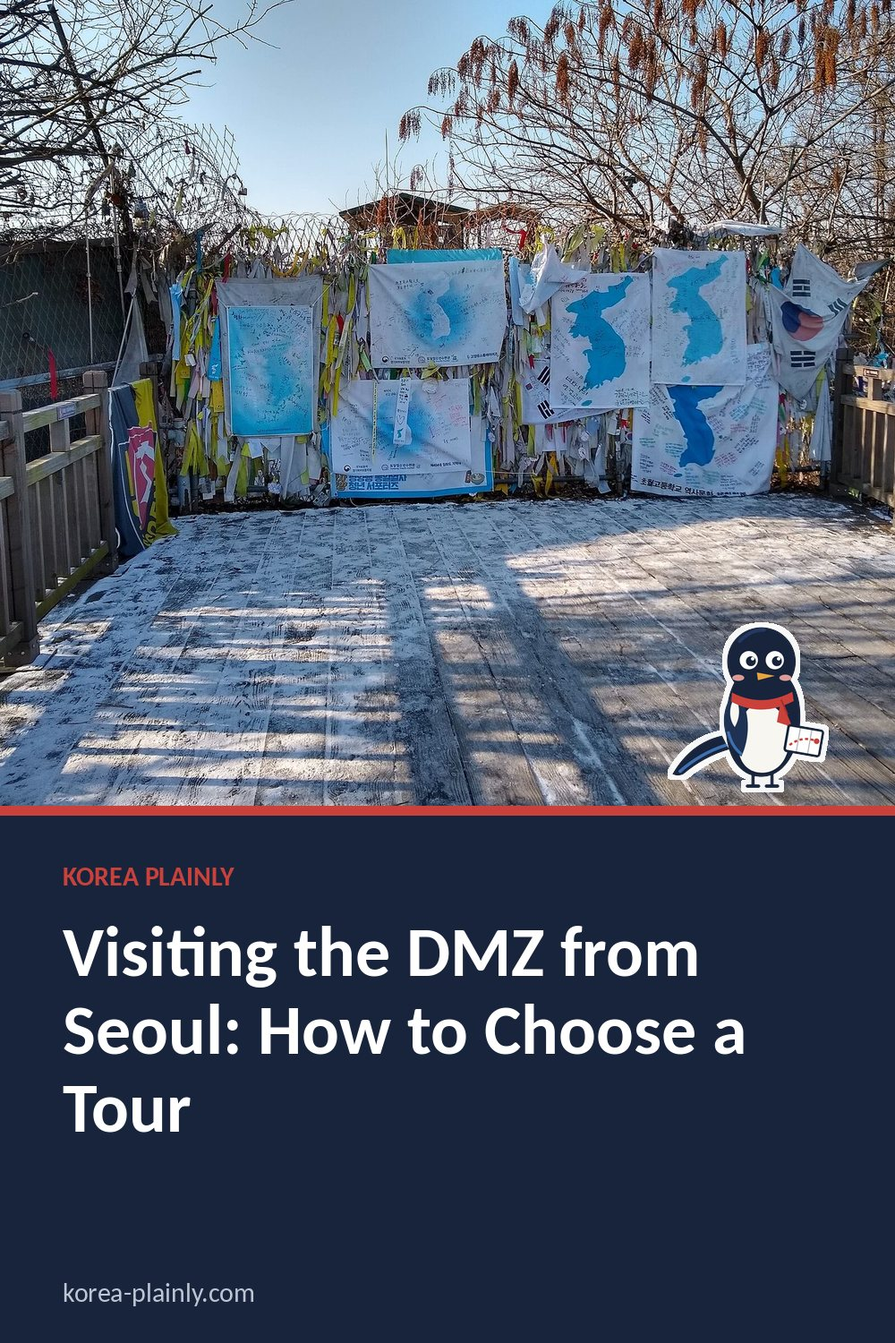
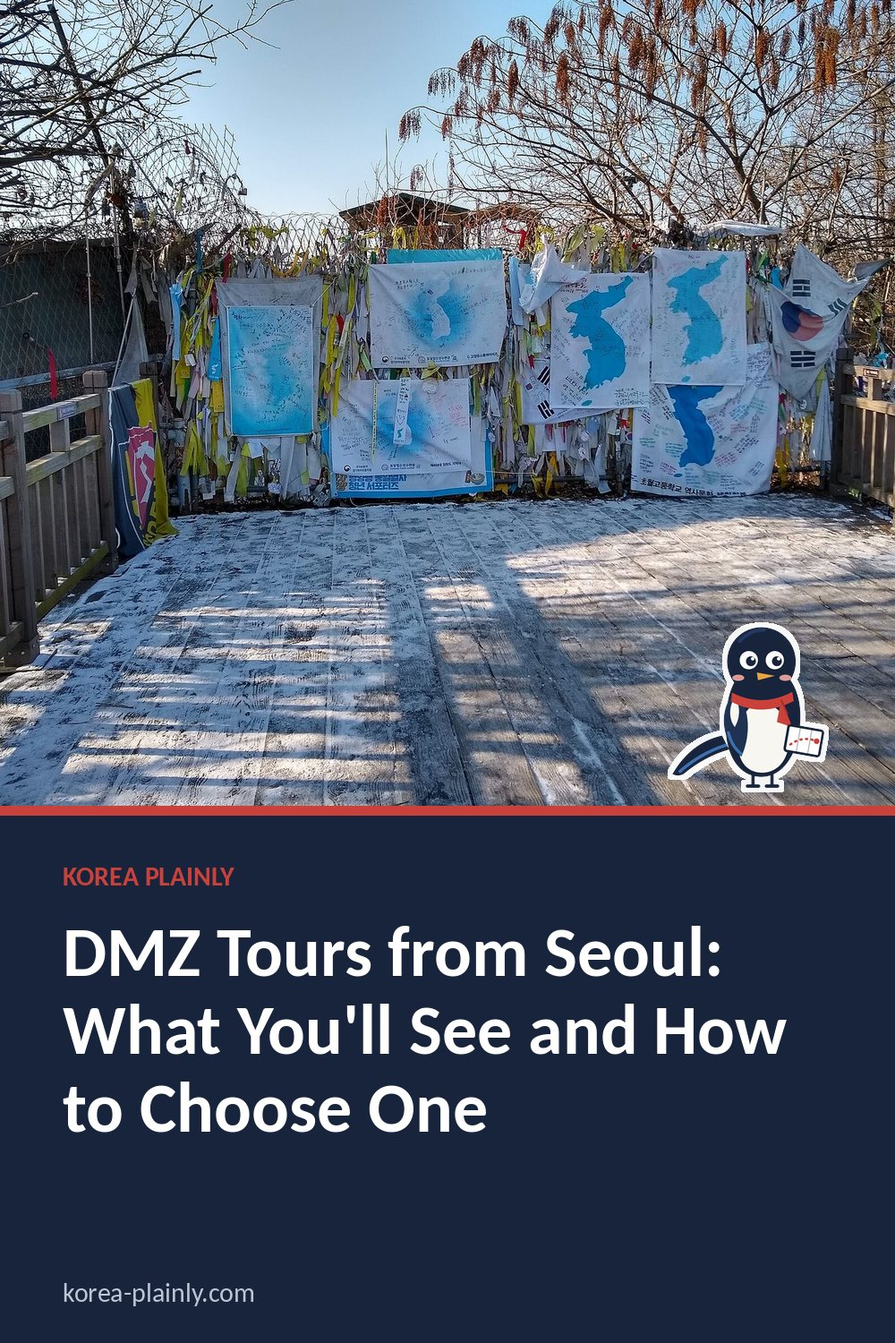
DMZ guide: retitle for 'dmz tours from seoul' and rewrite with the three ways to go and the 2026 JSA status; queue Busan and Jeonju-from-Seoul topics first
Claude-Session: https://claude.ai/code/session_01PbvyzXBvDyJFuNweV8hYLA

Changed region(s): [[0.062, 0.6747, 0.868, 0.8587]]

diff --git a/dmz-tour-guide.html b/dmz-tour-guide.html
@@ -11,13 +11,11 @@
 >
 
 <link rel="stylesheet" href="style.css?v=20261015-1">
-<title>
-Visiting the DMZ from Seoul: How to Choose a Tour | Korea Plainly
-</title>
+<title>DMZ Tours from Seoul: What You'll See and How to Choose One</title>
 
 <meta
   name="description"
-  content="How to visit the DMZ from Seoul: what a tour actually shows you, the JSA question, how to pick an operator, passports, closing days and what to expect on the day."
+  content="DMZ tours from Seoul compared: coach tours, Paju's own shuttle from Imjingak and the DMZ train, plus the 2026 JSA status, passport rules and Monday closures."
 >
 <link
   rel="canonical"
@@ -31,12 +29,12 @@ Visiting the DMZ from Seoul: How to Choose a Tour | Korea Plainly
 
 <meta
   property="og:title"
-  content="Visiting the DMZ from Seoul: How to Choose a Tour"
+  content="DMZ Tours from Seoul: What You'll See and How to Choose One"
 >
 
 <meta
   property="og:description"
-  content="How to visit the DMZ from Seoul: what a tour actually shows you, the JSA question, how to pick an operator, passports, closing days and what to expect on the day."
+  content="DMZ tours from Seoul compared: coach tours, Paju's own shuttle from Imjingak and the DMZ train, plus the 2026 JSA status, passport rules and Monday closures."
 >
 
 <meta
@@ -61,12 +59,12 @@ Visiting the DMZ from Seoul: How to Choose a Tour | Korea Plainly
 
 <meta
   name="twitter:title"
-  content="Visiting the DMZ from Seoul: How to Choose a Tour"
+  content="DMZ Tours from Seoul: What You'll See and How to Choose One"
 >
 
 <meta
   name="twitter:description"
-  content="How to visit the DMZ from Seoul: what a tour actually shows you, the JSA question, how to pick an operator, passports, closing days and what to expect on the day."
+  content="DMZ tours from Seoul compared: coach tours, Paju's own shuttle from Imjingak and the DMZ train, plus the 2026 JSA status, passport rules and Monday closures."
 >
 
 <meta
@@ -246,12 +244,12 @@ footer {
 <script async src="https://www.googletagmanager.com/gtag/js?id=G-F508WWT8G9"></script><script>window.dataLayer=window.dataLayer||[];function gtag(){dataLayer.push(arguments);}gtag('js',new Date());gtag('config','G-F508WWT8G9');</script>
 <script async src="https://pagead2.googlesyndication.com/pagead/js/adsbygoogle.js?client=ca-pub-7379462117232471" crossorigin="anonymous"></script>
 <style>.kp-date{font-size:13px;color:#62635f;margin:-6px 0 22px}</style>
-<script type="application/ld+json" id="kp-faq-ld">{"@context": "https://schema.org", "@type": "FAQPage", "mainEntity": [{"@type": "Question", "name": "Can I visit the DMZ without a tour?", "acceptedAnswer": {"@type": "Answer", "text": "You can visit Imjingak Peace Park on your own, but the Third Tunnel and Dora Observatory are in a restricted area, so in practice you need an organised tour."}}, {"@type": "Question", "name": "Is the JSA at Panmunjom open to tourists?", "acceptedAnswer": {"@type": "Answer", "text": "Civilian JSA tours were suspended in 2023 and access has been limited since. If one is offered, book early and expect possible cancellation."}}, {"@type": "Question", "name": "What do I need to bring on a DMZ tour?", "acceptedAnswer": {"@type": "Answer", "text": "Your physical passport, comfortable shoes and weather-appropriate clothes. Without your passport you will not get past the checkpoint."}}]}</script>
 <link rel="stylesheet" href="article.css?v=3">
 <link rel="stylesheet" href="https://fonts.googleapis.com/css2?family=DM+Sans:wght@400;500;600;700&family=Playfair+Display:ital,wght@0,600;1,600&display=swap">
 <link rel="icon" href="/favicon.svg" type="image/svg+xml">
-<script type="application/ld+json" id="kp-article-ld">{"@context": "https://schema.org", "@type": "Article", "headline": "Visiting the DMZ from Seoul: How to Choose a Tour", "description": "How to visit the DMZ from Seoul: what a tour actually shows you, the JSA question, how to pick an operator, passports, closing days and what to expect on the day.", "image": ["https://korea-plainly.com/photo-dmz-tour-guide.jpg"], "datePublished": "2026-10-17", "dateModified": "2026-10-17", "author": {"@type": "Person", "name": "Jungsuk Kim", "url": "https://korea-plainly.com/about.html#author"}, "publisher": {"@type": "Organization", "name": "Korea Plainly", "url": "https://korea-plainly.com/"}, "mainEntityOfPage": "https://korea-plainly.com/dmz-tour-guide.html"}</script>
-<script type="application/ld+json" id="kp-breadcrumb-ld">{"@context": "https://schema.org", "@type": "BreadcrumbList", "itemListElement": [{"@type": "ListItem", "position": 1, "name": "Home", "item": "https://korea-plainly.com/"}, {"@type": "ListItem", "position": 2, "name": "Guides", "item": "https://korea-plainly.com/guides.html"}, {"@type": "ListItem", "position": 3, "name": "Travel Basics", "item": "https://korea-plainly.com/guides.html?category=travel"}, {"@type": "ListItem", "position": 4, "name": "Visiting the DMZ from Seoul: How to Choose a Tour", "item": "https://korea-plainly.com/dmz-tour-guide.html"}]}</script>
+<script type="application/ld+json" id="kp-faq-ld">{"@context": "https://schema.org", "@type": "FAQPage", "mainEntity": [{"@type": "Question", "name": "Can I visit the DMZ from Seoul without a tour?", "acceptedAnswer": {"@type": "Answer", "text": "You can reach Imjingak Peace Park on your own by train and bus, but the Third Tunnel and Dora Observatory are in a restricted area. To see them you need either a tour from Seoul or Paju city's shuttle from Imjingak, with your passport."}}, {"@type": "Question", "name": "Is the JSA at Panmunjom open to tourists in 2026?", "acceptedAnswer": {"@type": "Answer", "text": "No. Public tours stopped in July 2023, and since 2025 only special visits for officials and invited guests have been allowed. Ordinary DMZ tours from Seoul still visit the tunnel, observatory and Dorasan Station."}}, {"@type": "Question", "name": "How long does a DMZ tour from Seoul take?", "acceptedAnswer": {"@type": "Answer", "text": "A half-day tour takes about six hours including the drive, leaving early in the morning and returning in the early afternoon. Full-day tours take eight to ten hours."}}]}</script>
+<script type="application/ld+json" id="kp-article-ld">{"@context": "https://schema.org", "@type": "Article", "headline": "DMZ Tours from Seoul: What You'll See and How to Choose One", "description": "DMZ tours from Seoul compared: coach tours, Paju", "image": ["https://korea-plainly.com/photo-dmz-tour-guide.jpg"], "datePublished": "2026-10-17", "dateModified": "2026-10-23", "author": {"@type": "Person", "name": "Jungsuk Kim", "url": "https://korea-plainly.com/about.html#author"}, "publisher": {"@type": "Organization", "name": "Korea Plainly", "url": "https://korea-plainly.com/"}, "mainEntityOfPage": "https://korea-plainly.com/dmz-tour-guide.html"}</script>
+<script type="application/ld+json" id="kp-breadcrumb-ld">{"@context": "https://schema.org", "@type": "BreadcrumbList", "itemListElement": [{"@type": "ListItem", "position": 1, "name": "Home", "item": "https://korea-plainly.com/"}, {"@type": "ListItem", "position": 2, "name": "Guides", "item": "https://korea-plainly.com/guides.html"}, {"@type": "ListItem", "position": 3, "name": "Travel Basics", "item": "https://korea-plainly.com/guides.html?category=travel"}, {"@type": "ListItem", "position": 4, "name": "DMZ Tours from Seoul: What You'll See and How to Choose One", "item": "https://korea-plainly.com/dmz-tour-guide.html"}]}</script>
 <meta property="article:published_time" content="2026-10-17">
 </head>
 
@@ -282,12 +280,12 @@ TRAVEL · DAY TRIP
 </div>
 
 <h1>
-Visiting the DMZ from Seoul: How to Choose a Tour
+DMZ Tours from Seoul: What You'll See and How to Choose One
 </h1>
-<p class="kp-date" data-kp="date">By <a href="about.html#author">Jungsuk Kim</a>, Korea Plainly · Published <time datetime="2026-10-17">17 October 2026</time></p>
+<p class="kp-date" data-kp="date">By <a href="about.html#author">Jungsuk Kim</a>, Korea Plainly · Published <time datetime="2026-10-17">17 October 2026</time> · Updated <time datetime="2026-10-23">23 October 2026</time></p>
 
 <p class="dek">
-How to visit the DMZ from Seoul: what a tour actually shows you, the JSA question, how to pick an operator, passports, closing days and what to expect on the day.
+DMZ tours from Seoul compared: coach tours, Paju's own shuttle from Imjingak and the DMZ train, plus the 2026 JSA status, passport rules and Monday closures.
 </p>
 
 <img
@@ -299,54 +297,60 @@ How to visit the DMZ from Seoul: what a tour actually shows you, the JSA questio
 
 <article>
 
-<p>The Demilitarised Zone, the 4-kilometre-wide strip that has divided North and South Korea since the 1953 armistice, is only about an hour's drive north of Seoul. A day there is sobering and strange: peace parks with fairground rides, soldiers checking passports, a tunnel dug towards Seoul, and a view across the border into North Korea. This guide explains what you will actually see, how to pick a tour and what to bring.</p>
+<p>The Demilitarised Zone, the 4-kilometre-wide strip that has divided North and South Korea since the 1953 armistice, is only about an hour's drive north of Seoul, which is why DMZ tours from Seoul are one of the most popular day trips in the country. A day there is sobering and strange: soldiers checking passports, a tunnel dug towards Seoul and a view into North Korea. This guide explains what you will actually see, the three main ways to go, what has changed with the JSA, and what to bring.</p>
 
-<nav class="kp-toc" data-kp="toc" aria-label="On this page"><p>On this page</p><ol><li><a href="#what-you-can-see">What you can actually see</a></li><li><a href="#the-jsa-question">The JSA question</a></li><li><a href="#choosing-a-tour">Choosing a tour</a></li><li><a href="#before-you-go">Before you go</a></li><li><a href="#is-it-worth-it">Is it worth it?</a></li><li><a href="#faq">FAQ</a></li></ol></nav>
-<h2 id="what-you-can-see">What you can actually see</h2>
-<p>Most "DMZ tours" visit the area just south of the zone, in Paju, rather than the zone itself. A typical half-day or full-day tour includes some of these:</p>
+<nav class="kp-toc" data-kp="toc" aria-label="On this page"><p>On this page</p><ol><li><a href="#what-you-can-see">What a DMZ tour actually shows you</a></li><li><a href="#ways-to-go">Three ways to do a DMZ tour from Seoul</a></li><li><a href="#the-jsa-question">The JSA question</a></li><li><a href="#choosing-a-tour">How to choose a DMZ tour</a></li><li><a href="#before-you-go">Before you go</a></li><li><a href="#is-it-worth-it">Is it worth it?</a></li><li><a href="#faq">FAQ</a></li></ol></nav>
+<h2 id="what-you-can-see">What a DMZ tour actually shows you</h2>
+<p>Most "DMZ tours" visit the Civilian Control Zone just south of the DMZ in Paju, not the zone itself. A typical half-day or full-day tour includes most of these:</p>
 <ul>
-<li><strong>Imjingak Peace Park:</strong> the starting point of most tours, with the Freedom Bridge, a bullet-scarred steam locomotive and fences covered in prayer ribbons left by separated families.</li>
-<li><strong>The Third Infiltration Tunnel:</strong> a tunnel dug from the North and found in 1978. You walk (or ride a small monorail) down a steep slope and then stoop along the tunnel itself. Bags and phones go into lockers, and photos are not allowed inside.</li>
-<li><strong>Dora Observatory:</strong> a hilltop viewpoint where, on a clear day, you can see a North Korean village and the city of Kaesong through binoculars.</li>
+<li><strong>Imjingak Peace Park:</strong> the starting point of almost every tour, with the Freedom Bridge, a bullet-scarred steam locomotive and fences covered in prayer ribbons left by separated families. It sits outside the restricted area, so anyone can visit.</li>
+<li><strong>The Third Infiltration Tunnel:</strong> a tunnel dug from the North and found in 1978. You walk (or, when it is running, ride a small monorail) down a steep slope and then stoop along the tunnel itself. Bags and phones go into lockers, and photos are not allowed inside.</li>
+<li><strong>Dora Observatory:</strong> a hilltop viewpoint where, on a clear day, you can see a North Korean village and the edge of Kaesong through binoculars. Spring haze often hides the view.</li>
 <li><strong>Dorasan Station:</strong> a modern station built for a railway to the North that has never run a regular service.</li>
 </ul>
-<p>Some tours add a suspension bridge, a lake or a talk with a North Korean defector. Read the itinerary closely: the cheapest tours often spend most of their time at Imjingak and shops.</p>
+<p>Read the itinerary closely: the cheapest tours often finish with a long stop at a ginseng or amethyst shop.</p>
+
+<h2 id="ways-to-go">Three ways to do a DMZ tour from Seoul</h2>
+<h3>1. A coach tour with pick-up in Seoul</h3>
+<p>This is what most first-time visitors book, and it is the easiest. A bus collects you from a hotel or a meeting point near City Hall, Myeongdong or Hongdae at around 7:00–8:00, an English-speaking guide explains each stop, and a half-day tour returns by early afternoon. In 2026 a half-day coach tour usually costs roughly ₩60,000–₩80,000 per person, with full-day tours and private cars costing more. Coach tours run most days; on Mondays, when the Third Tunnel is closed, many swap in other stops.</p>
+<h3>2. Paju's own DMZ shuttle from Imjingak</h3>
+<p>Paju city runs its own bus tour into the control zone from Imjingak. It is much cheaper (around ₩10,000 in 2026, a little more with the tunnel monorail) but needs more effort. You make your own way to Imjingak, by Gyeongui–Jungang Line train towards Munsan and then a short bus or taxi ride (check the route on Naver Map or KakaoMap). Only part of each bus is sold online; the rest of the seats go at the Imjingak ticket window from the morning, first come, first served, and popular weekends sell out. Everyone in your group must be at the window with their own physical passport. There is no English commentary on board, and the tour does not run on Mondays or on major holidays.</p>
+<h3>3. Korail's DMZ train to Dorasan</h3>
+<p>Korail runs a DMZ train from Seoul Station to Dorasan, with a coach for the restricted sites and a guide included. It runs only on a few selected days each month and needs a minimum number of passengers, so check the dates on the Korail website first.</p>
 
 <h2 id="the-jsa-question">The JSA question</h2>
-<p>The Joint Security Area at Panmunjom, with its famous blue huts where soldiers from both sides face each other, is a different and much more restricted visit. Civilian JSA tours were suspended in 2023 and access since then has been limited and unpredictable. If a company offers a JSA tour, book well ahead, expect a strict dress code and age limit, and be ready for it to be cancelled at short notice for military reasons. Do not plan your whole trip around it.</p>
+<p>The Joint Security Area at Panmunjom, with its famous blue huts where soldiers from both sides face each other, is a separate and much more restricted place. Public tours were halted in July 2023 after a US soldier crossed into North Korea during a visit. Since May 2025 the UN Command has allowed only special visits for officials and invited guests, arranged weeks ahead through the government. In practice, ordinary travellers cannot book a JSA tour in 2026. Be wary of any listing that promises one.</p>
 
-<h2 id="choosing-a-tour">Choosing a tour</h2>
-<p>You cannot simply walk into the restricted area: the Third Tunnel and Dora Observatory sit inside a military-controlled zone, so almost everyone goes with a licensed tour. Imjingak itself is open to anyone, and the local city runs its own bus tours from there, but rules for foreign visitors and timetables change, so most first-time visitors find a tour from Seoul simpler.</p>
+<h2 id="choosing-a-tour">How to choose a DMZ tour</h2>
 <ul>
-<li><strong>Half-day or full-day:</strong> a half-day tour covers the main sights and gets you back to Seoul by mid-afternoon. A full day adds extra stops and lunch.</li>
-<li><strong>Pick-up point:</strong> most tours collect people from central hotels or a meeting point near City Hall or Myeongdong early in the morning. Check how close it is to where you are staying.</li>
-<li><strong>Guide language:</strong> confirm the tour is in English (or your language) and not a mixed group with one commentary.</li>
-<li><strong>What is included:</strong> entrance fees, the tunnel monorail and lunch are sometimes extras.</li>
-<li><strong>Cancellation policy:</strong> sites can close at short notice for military drills or security alerts, so choose a company that refunds in that case.</li>
+<li><strong>Half-day or full-day:</strong> a full day adds stops such as the Majang Lake suspension bridge or a talk with a North Korean defector, plus lunch.</li>
+<li><strong>Pick-up point:</strong> check how far the meeting point is from your hotel. Early pick-ups do not wait for latecomers.</li>
+<li><strong>Guide language:</strong> confirm the commentary is in English, not split between several languages.</li>
+<li><strong>What is included:</strong> entrance fees, the tunnel monorail and lunch are sometimes extras. Look for "no shopping" if you would rather skip the shop stop.</li>
+<li><strong>Cancellation policy:</strong> sites can close at short notice for military reasons, so choose a company that refunds or reschedules.</li>
 </ul>
-<p>Prices change, so compare a few operators on the day you book. A standard half-day tour is usually far cheaper than any JSA package.</p>
 
 <h2 id="before-you-go">Before you go</h2>
 <ul>
-<li><strong>Bring your physical passport.</strong> Soldiers check it at the checkpoint. A photo or copy is not accepted, and you will be turned away without it.</li>
-<li><strong>Check the closing days.</strong> The Third Tunnel is usually closed on Mondays and some sites close on national holidays; tours often swap in other stops on those days. Confirm with your operator.</li>
-<li><strong>Follow photo rules.</strong> Guides tell you where photos are not allowed, especially of military posts. Do as they say.</li>
-<li><strong>Wear good shoes.</strong> The tunnel slope is steep and the way back up is tiring. The tunnel is not suitable for people who struggle with stairs or tight spaces.</li>
-<li><strong>Dress for the weather.</strong> The area is exposed and colder than Seoul in winter.</li>
+<li><strong>Bring your physical passport.</strong> Soldiers check it at the checkpoint, and a photo or copy is refused. Residents can use their Korean residence card.</li>
+<li><strong>Check closing days.</strong> The Third Tunnel and Paju's shuttle are closed on Mondays and on Seollal and Chuseok, and the restricted area can close without warning. Confirm with your operator the day before.</li>
+<li><strong>Follow the photo rules.</strong> Photos of military posts are often banned, as are drones. Guides tell you where you can shoot.</li>
+<li><strong>Wear good shoes.</strong> The tunnel slope is steep and the walk back up is tiring, and the tunnel itself is low and narrow.</li>
+<li><strong>Dress warmly in winter.</strong> The area is open, windy and colder than Seoul.</li>
 </ul>
-<div class="tip"><strong>Tip:</strong> Book at least a few days ahead in spring and autumn, when tours fill up. Check the meeting point on Naver Map or KakaoMap the evening before, as early pick-ups do not wait.</div>
+<div class="tip"><strong>Tip:</strong> Book at least a few days ahead in spring and autumn, when tours fill up. Check the meeting point on Naver Map or KakaoMap the evening before, and keep your passport in your day bag, not the hotel safe.</div>
 
 <h2 id="is-it-worth-it">Is it worth it?</h2>
-<p>If you are curious about modern Korean history, yes. It is less dramatic than films suggest, and parts of it feel like a tourist attraction, but standing a few kilometres from North Korea and hearing how families were split by the border stays with you. If you only have two or three days in Seoul and prefer food and neighbourhoods, it is fine to skip it. For other ideas, see our <a href="day-trips-from-seoul.html">day trips from Seoul</a>.</p>
+<p>If you are curious about modern Korean history, yes. It is less dramatic than films suggest, but standing a few kilometres from North Korea and hearing how families were split stays with you. If you only have two or three days in Seoul and prefer food and neighbourhoods, it is fine to skip it; our <a href="seoul-3-day-itinerary.html">3-day Seoul itinerary</a> works without it. With a week, a half-day tour fits well into a <a href="korea-7-day-itinerary.html">7-day Korea itinerary</a>. For other ideas, see our <a href="day-trips-from-seoul.html">day trips from Seoul</a>.</p>
 
 <section class="faq">
 <h2 id="faq">FAQ</h2>
-<h3>Can I visit the DMZ without a tour?</h3>
-<p>You can visit Imjingak Peace Park on your own, but the Third Tunnel and Dora Observatory are in a restricted area, so in practice you need an organised tour.</p>
-<h3>Is the JSA at Panmunjom open to tourists?</h3>
-<p>Civilian JSA tours were suspended in 2023 and access has been limited since. If one is offered, book early and expect possible cancellation.</p>
-<h3>What do I need to bring on a DMZ tour?</h3>
-<p>Your physical passport, comfortable shoes and weather-appropriate clothes. Without your passport you will not get past the checkpoint.</p>
+<h3>Can I visit the DMZ from Seoul without a tour?</h3>
+<p>You can reach Imjingak Peace Park on your own by train and bus, but the Third Tunnel and Dora Observatory are in a restricted area. To see them you need either a tour from Seoul or Paju city's shuttle from Imjingak, with your passport.</p>
+<h3>Is the JSA at Panmunjom open to tourists in 2026?</h3>
+<p>No. Public tours stopped in July 2023, and since 2025 only special visits for officials and invited guests have been allowed. Ordinary DMZ tours from Seoul still visit the tunnel, observatory and Dorasan Station.</p>
+<h3>How long does a DMZ tour from Seoul take?</h3>
+<p>A half-day tour takes about six hours including the drive, leaving early in the morning and returning in the early afternoon. Full-day tours take eight to ten hours.</p>
 </section>
 
 

diff --git a/myeongdong-night-market.html b/myeongdong-night-market.html
@@ -245,12 +245,12 @@ footer {
 <script async src="https://pagead2.googlesyndication.com/pagead/js/adsbygoogle.js?client=ca-pub-7379462117232471" crossorigin="anonymous"></script>
 <style>.kp-date{font-size:13px;color:#62635f;margin:-6px 0 22px}</style>
 <script type="application/ld+json" id="kp-faq-ld">{"@context": "https://schema.org", "@type": "FAQPage", "mainEntity": [{"@type": "Question", "name": "When is the best time to visit Myeongdong’s street-food stalls?", "acceptedAnswer": {"@type": "Answer", "text": "Myeongdong’s street-food stalls are generally associated with the evening, but activity and selection can vary by day, weather, and vendor. If you have a particular snack in mind, don’t rely on a precise schedule. Check the area when you arrive, and keep a nearby meal option in mind."}}, {"@type": "Question", "name": "Should I bring cash for street food?", "acceptedAnswer": {"@type": "Answer", "text": "Payment methods vary from stall to stall. Carry some Korean won in cash, and ask before ordering whether a vendor accepts your card or another payment method. Don’t assume every stall takes cards, and check the amount and payment method before your food is prepared."}}, {"@type": "Question", "name": "Can I find food that suits my dietary needs or allergies?", "acceptedAnswer": {"@type": "Answer", "text": "Options and ingredients vary, so ask the vendor about the food before ordering. If you have an allergy, explain it clearly and ask about ingredients and possible contact with other foods. A translated note can help, but if you’re unsure about an answer, choose something else."}}]}</script>
-<script type="application/ld+json" id="kp-article-ld">{"@context": "https://schema.org", "@type": "Article", "headline": "Myeongdong Night Market and Street Food: What to Know", "description": "A practical guide to finding Myeongdong’s evening food stalls, choosing Korean street snacks, paying, and getting around.", "image": ["https://korea-plainly.com/photo-myeongdong-night-market.jpg"], "datePublished": "2026-10-23", "dateModified": "2026-10-23", "author": {"@type": "Person", "name": "Jungsuk Kim", "url": "https://korea-plainly.com/about.html#author"}, "publisher": {"@type": "Organization", "name": "Korea Plainly", "url": "https://korea-plainly.com/"}, "mainEntityOfPage": "https://korea-plainly.com/myeongdong-night-market.html"}</script>
-<script type="application/ld+json" id="kp-breadcrumb-ld">{"@context": "https://schema.org", "@type": "BreadcrumbList", "itemListElement": [{"@type": "ListItem", "position": 1, "name": "Home", "item": "https://korea-plainly.com/"}, {"@type": "ListItem", "position": 2, "name": "Guides", "item": "https://korea-plainly.com/guides.html"}, {"@type": "ListItem", "position": 3, "name": "Food & Dining", "item": "https://korea-plainly.com/guides.html?category=food"}, {"@type": "ListItem", "position": 4, "name": "Myeongdong Night Market and Street Food: What to Know", "item": "https://korea-plainly.com/myeongdong-night-market.html"}]}</script>
-<meta property="article:published_time" content="2026-10-23">
 <link rel="stylesheet" href="article.css?v=3">
 <link rel="stylesheet" href="https://fonts.googleapis.com/css2?family=DM+Sans:wght@400;500;600;700&family=Playfair+Display:ital,wght@0,600;1,600&display=swap">
 <link rel="icon" href="/favicon.svg" type="image/svg+xml">
+<script type="application/ld+json" id="kp-article-ld">{"@context": "https://schema.org", "@type": "Article", "headline": "Myeongdong Night Market and Street Food: What to Know", "description": "A practical guide to finding Myeongdong’s evening food stalls, choosing Korean street snacks, paying, and getting around.", "image": ["https://korea-plainly.com/photo-myeongdong-night-market.jpg"], "datePublished": "2026-10-23", "dateModified": "2026-10-23", "author": {"@type": "Person", "name": "Jungsuk Kim", "url": "https://korea-plainly.com/about.html#author"}, "publisher": {"@type": "Organization", "name": "Korea Plainly", "url": "https://korea-plainly.com/"}, "mainEntityOfPage": "https://korea-plainly.com/myeongdong-night-market.html"}</script>
+<script type="application/ld+json" id="kp-breadcrumb-ld">{"@context": "https://schema.org", "@type": "BreadcrumbList", "itemListElement": [{"@type": "ListItem", "position": 1, "name": "Home", "item": "https://korea-plainly.com/"}, {"@type": "ListItem", "position": 2, "name": "Guides", "item": "https://korea-plainly.com/guides.html"}, {"@type": "ListItem", "position": 3, "name": "Food & Dining", "item": "https://korea-plainly.com/guides.html?category=food"}, {"@type": "ListItem", "position": 4, "name": "Myeongdong Night Market and Street Food: What to Know", "item": "https://korea-plainly.com/myeongdong-night-market.html"}]}</script>
+<meta property="article:published_time" content="2026-10-23">
 </head>
 
 <body class="kp-article">

diff --git a/korea-festivals.html b/korea-festivals.html
@@ -248,7 +248,7 @@ footer {
 <link rel="stylesheet" href="https://fonts.googleapis.com/css2?family=DM+Sans:wght@400;500;600;700&family=Playfair+Display:ital,wght@0,600;1,600&display=swap">
 <link rel="icon" href="/favicon.svg" type="image/svg+xml">
 <script type="application/ld+json" id="kp-faq-ld">{"@context": "https://schema.org", "@type": "FAQPage", "mainEntity": [{"@type": "Question", "name": "Where does this festival list come from?", "acceptedAnswer": {"@type": "Answer", "text": "From the Korea Tourism Organization's official tourism data, which we check every week. Always confirm dates on the festival's own page before you travel."}}, {"@type": "Question", "name": "When is the best time for festivals in Korea?", "acceptedAnswer": {"@type": "Answer", "text": "Autumn has the most festivals, followed by spring. Winter is the season for lights, ice fishing and snow festivals."}}, {"@type": "Question", "name": "Are Korean festivals free?", "acceptedAnswer": {"@type": "Answer", "text": "Many are free to enter, especially street, lantern and food festivals. Some activities, such as ice fishing or paid seats at fireworks shows, cost extra."}}]}</script>
-<script type="application/ld+json" id="kp-article-ld">{"@context": "https://schema.org", "@type": "Article", "headline": "Festivals in Korea: What's On This Month and Coming Up", "description": "A festival calendar for Korea, updated every week: what is on now and coming up across the country, from food and lantern festivals to fireworks, flowers and ice fishing.", "image": ["https://korea-plainly.com/photo-korea-festivals.jpg"], "datePublished": "2026-10-15", "dateModified": "2026-10-22", "author": {"@type": "Person", "name": "Jungsuk Kim", "url": "https://korea-plainly.com/about.html#author"}, "publisher": {"@type": "Organization", "name": "Korea Plainly", "url": "https://korea-plainly.com/"}, "mainEntityOfPage": "https://korea-plainly.com/korea-festivals.html"}</script>
+<script type="application/ld+json" id="kp-article-ld">{"@context": "https://schema.org", "@type": "Article", "headline": "Festivals in Korea: What's On This Month and Coming Up", "description": "A festival calendar for Korea, updated every week: what is on now and coming up across the country, from food and lantern festivals to fireworks, flowers and ice fishing.", "image": ["https://korea-plainly.com/photo-korea-festivals.jpg"], "datePublished": "2026-10-15", "dateModified": "2026-10-23", "author": {"@type": "Person", "name": "Jungsuk Kim", "url": "https://korea-plainly.com/about.html#author"}, "publisher": {"@type": "Organization", "name": "Korea Plainly", "url": "https://korea-plainly.com/"}, "mainEntityOfPage": "https://korea-plainly.com/korea-festivals.html"}</script>
 <script type="application/ld+json" id="kp-breadcrumb-ld">{"@context": "https://schema.org", "@type": "BreadcrumbList", "itemListElement": [{"@type": "ListItem", "position": 1, "name": "Home", "item": "https://korea-plainly.com/"}, {"@type": "ListItem", "position": 2, "name": "Guides", "item": "https://korea-plainly.com/guides.html"}, {"@type": "ListItem", "position": 3, "name": "Travel Basics", "item": "https://korea-plainly.com/guides.html?category=travel"}, {"@type": "ListItem", "position": 4, "name": "Festivals in Korea: What's On This Month and Coming Up", "item": "https://korea-plainly.com/korea-festivals.html"}]}</script>
 <meta property="article:published_time" content="2026-10-15">
 </head>
@@ -282,7 +282,7 @@ TRAVEL BASICS · WHAT'S ON
 <h1>
 Festivals in Korea: What's On This Month and Coming Up
 </h1>
-<p class="kp-date" data-kp="date">By <a href="about.html#author">Jungsuk Kim</a>, Korea Plainly · Published <time datetime="2026-10-15">15 October 2026</time> · Updated <time datetime="2026-10-22">22 October 2026</time></p>
+<p class="kp-date" data-kp="date">By <a href="about.html#author">Jungsuk Kim</a>, Korea Plainly · Published <time datetime="2026-10-15">15 October 2026</time> · Updated <time datetime="2026-10-23">23 October 2026</time></p>
 
 <p class="dek">
 A festival calendar for Korea, updated every week: what is on now and coming up across the country, from food and lantern festivals to fireworks, flowers and ice fishing.

diff --git a/nami-island-gapyeong.html b/nami-island-gapyeong.html
@@ -359,7 +359,7 @@ How to visit Nami Island and Gapyeong from Seoul: train, shuttle bus or tour, th
 <!-- /kp-kkachi -->
 <section class="related-guides">
 <h2>Related guides</h2>
-<div class="kp-related"><a href="day-trips-from-seoul.html"><img src="photo-day-trips-from-seoul.jpg" alt="" loading="lazy" srcset="img/photo-day-trips-from-seoul.449c2dca.w480.webp 480w, img/photo-day-trips-from-seoul.449c2dca.w800.webp 800w, img/photo-day-trips-from-seoul.449c2dca.w1200.webp 1200w, photo-day-trips-from-seoul.jpg 1600w" sizes="(max-width: 600px) 100vw, (max-width: 1000px) 50vw, 400px" decoding="async"><span>Easy Day Trips from Seoul for First-Time Visitors</span></a><a href="seoul-vs-busan.html"><img src="photo-seoul-vs-busan.jpg" alt="" loading="lazy" srcset="img/photo-seoul-vs-busan.79c62dd8.w480.webp 480w, img/photo-seoul-vs-busan.79c62dd8.w800.webp 800w, img/photo-seoul-vs-busan.79c62dd8.w1200.webp 1200w, photo-seoul-vs-busan.jpg 1600w" sizes="(max-width: 600px) 100vw, (max-width: 1000px) 50vw, 400px" decoding="async"><span>Seoul or Busan? How to Choose (or Do Both) on Your First Trip</span></a><a href="dmz-tour-guide.html"><img src="photo-dmz-tour-guide.jpg" alt="" loading="lazy" srcset="img/photo-dmz-tour-guide.330a61dc.w480.webp 480w, img/photo-dmz-tour-guide.330a61dc.w800.webp 800w, img/photo-dmz-tour-guide.330a61dc.w1200.webp 1200w, photo-dmz-tour-guide.jpg 1600w" sizes="(max-width: 600px) 100vw, (max-width: 1000px) 50vw, 400px" decoding="async"><span>Visiting the DMZ from Seoul: How to Choose a Tour</span></a></div>
+<div class="kp-related"><a href="day-trips-from-seoul.html"><img src="photo-day-trips-from-seoul.jpg" alt="" loading="lazy" srcset="img/photo-day-trips-from-seoul.449c2dca.w480.webp 480w, img/photo-day-trips-from-seoul.449c2dca.w800.webp 800w, img/photo-day-trips-from-seoul.449c2dca.w1200.webp 1200w, photo-day-trips-from-seoul.jpg 1600w" sizes="(max-width: 600px) 100vw, (max-width: 1000px) 50vw, 400px" decoding="async"><span>Easy Day Trips from Seoul for First-Time Visitors</span></a><a href="seoul-vs-busan.html"><img src="photo-seoul-vs-busan.jpg" alt="" loading="lazy" srcset="img/photo-seoul-vs-busan.79c62dd8.w480.webp 480w, img/photo-seoul-vs-busan.79c62dd8.w800.webp 800w, img/photo-seoul-vs-busan.79c62dd8.w1200.webp 1200w, photo-seoul-vs-busan.jpg 1600w" sizes="(max-width: 600px) 100vw, (max-width: 1000px) 50vw, 400px" decoding="async"><span>Seoul or Busan? How to Choose (or Do Both) on Your First Trip</span></a><a href="dmz-tour-guide.html"><img src="photo-dmz-tour-guide.jpg" alt="" loading="lazy" srcset="img/photo-dmz-tour-guide.330a61dc.w480.webp 480w, img/photo-dmz-tour-guide.330a61dc.w800.webp 800w, img/photo-dmz-tour-guide.330a61dc.w1200.webp 1200w, photo-dmz-tour-guide.jpg 1600w" sizes="(max-width: 600px) 100vw, (max-width: 1000px) 50vw, 400px" decoding="async"><span>DMZ Tours from Seoul: What You'll See and How to Choose One</span></a></div>
 </section>
 
 </article>

diff --git a/guides.html b/guides.html
@@ -2266,11 +2266,11 @@ TRAVEL · DAY TRIP
 </small>
 
 <h2>
-Visiting the DMZ from Seoul: How to Choose a Tour
+DMZ Tours from Seoul: What You'll See and How to Choose One
 </h2>
 
 <p>
-How to visit the DMZ from Seoul: what a tour actually shows you, the JSA question, how to pick an operator, passports, closing days and what to expect on the day.
+DMZ tours from Seoul compared: coach tours, Paju's own shuttle from Imjingak and the DMZ train, plus the 2026 JSA status, passport rules and Monday closures.
 </p>
 
 <span class="guide-arrow">
